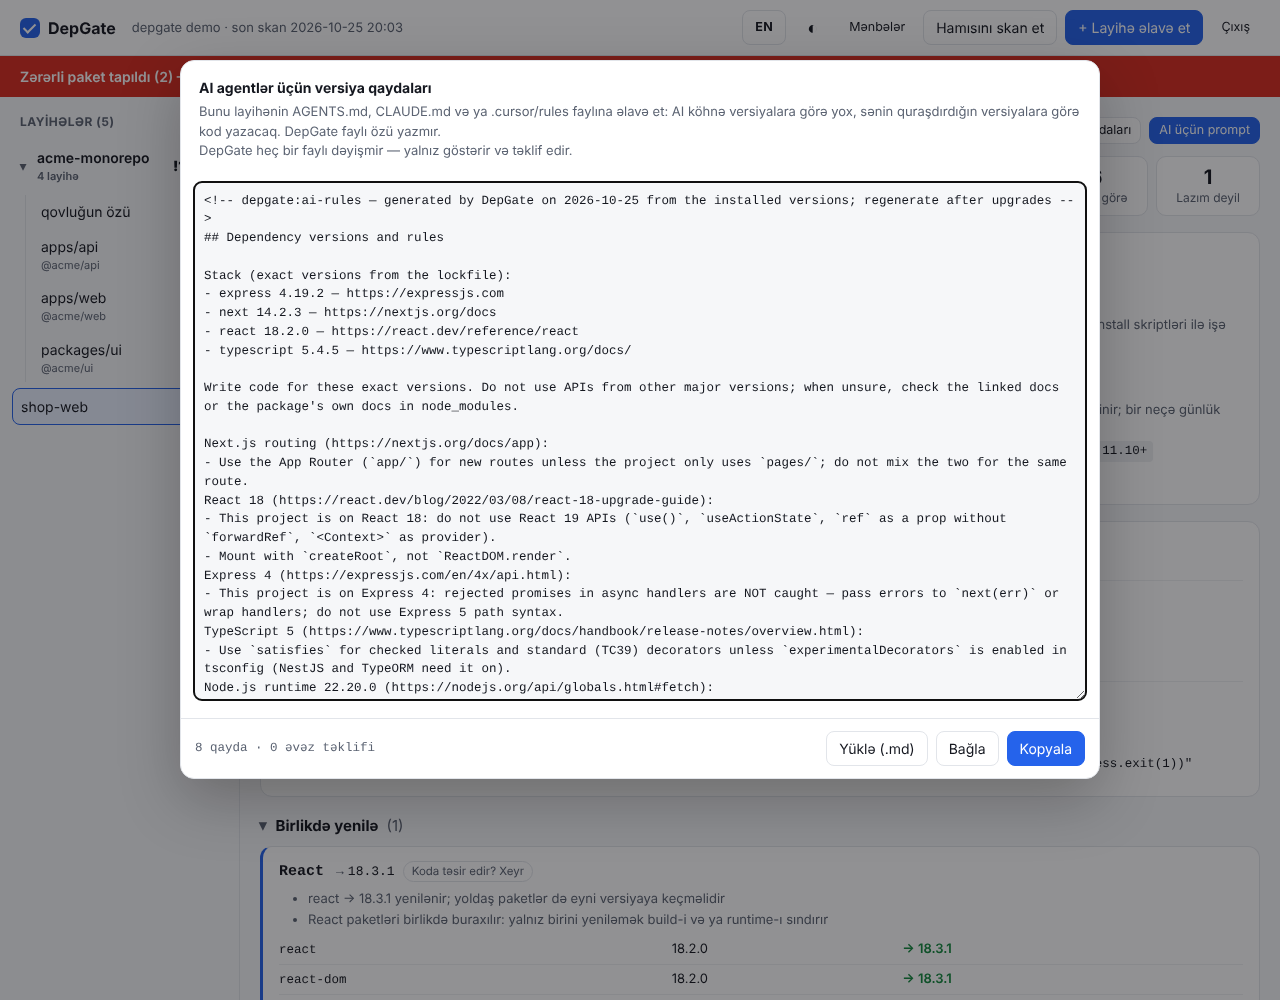
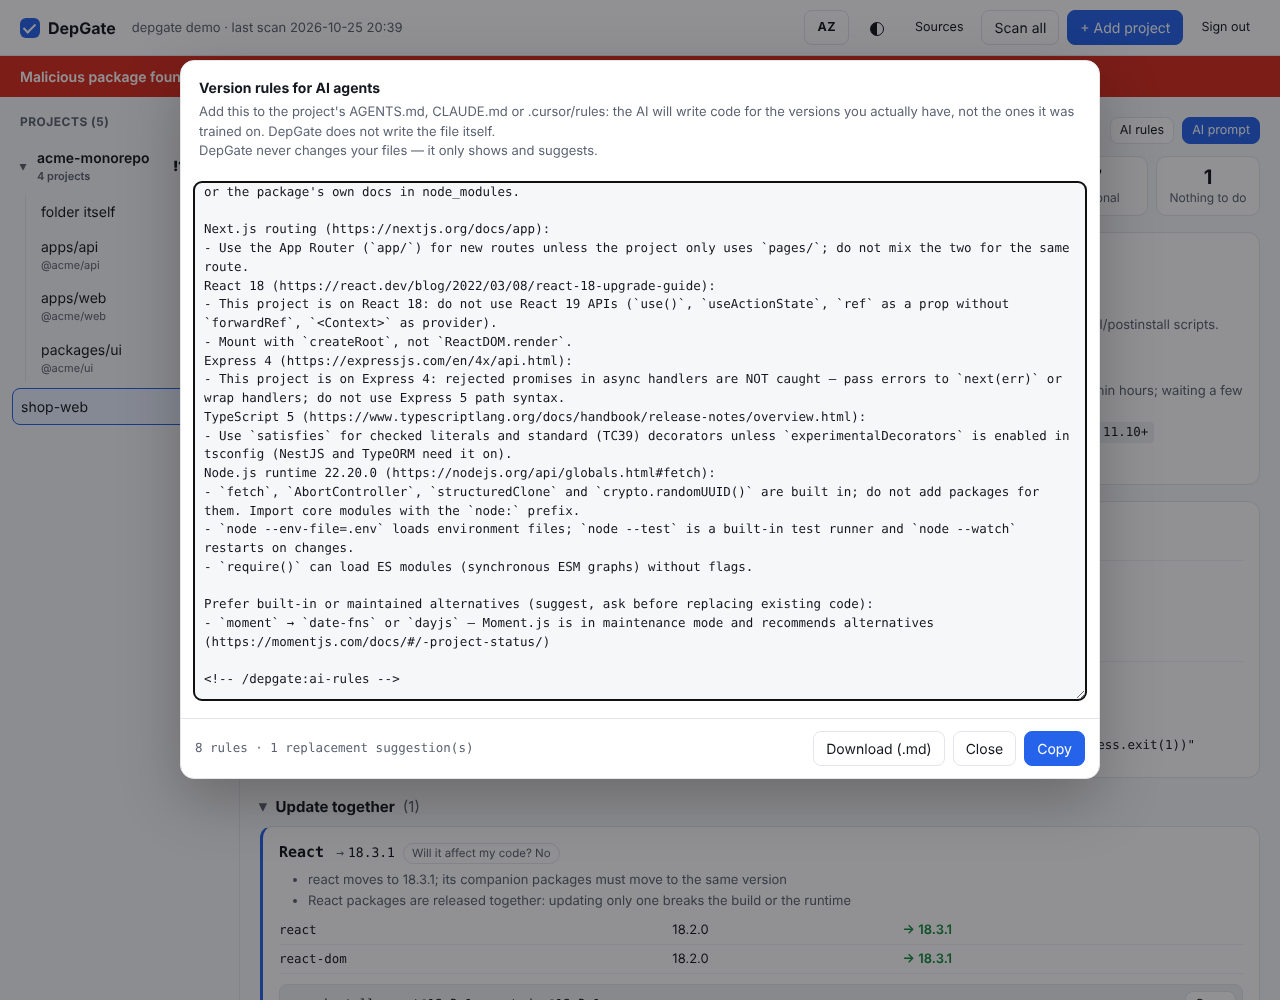
docs: bütün şəkillər indiki versiya ilə yenidən çəkildi; tema ikonu CSS ilə
- əsas şəkillər (EN/AZ) zərərli paket kartını da göstərir
- mənbələr pəncərəsi tam (8 mənbə + lokal oxunanlar), mətn mənbə faylları və Docker fayllarını da qeyd edir
- AI qaydaları əvəz təklifi ilə, kod dəyişiklikləri və AI şəkilləri ingiliscə
- tema düyməsi şriftdən asılı olmayan CSS ikonu ilə (◐ bəzi sistemlərdə yarımçıq görünürdü)
- demo: moment paketi (əvəz təklifini göstərmək üçün)

Claude-Session: https://claude.ai/code/session_01RC5sxXsnmjCqEpypdegVQc

diff --git a/internal/web/ui/app.js b/internal/web/ui/app.js
@@ -138,7 +138,7 @@
     sourcesTitle: ["Skan hansı mənbələrə əsaslanır", "What the scan is based on"],
     sourcesIntro: ["DepGate qərarı bu açıq mənbələrə görə verir. Kodun və faylların heç yerə göndərilmir — mənbələrdən yalnız paket adı və versiyası soruşulur.", "DepGate decides with these public sources. Your code and files are never sent anywhere — only package names and versions are looked up."],
     sourcesLocal: ["Kompüterində oxunanlar", "Read on your computer"],
-    sourcesLocalText: ["package.json və lockfile (npm, pnpm, yarn, bun) — quraşdırılmış versiyalar və asılılıq zənciri; Dockerfile, .nvmrc, .node-version, engines və CI faylları — Node.js versiyası; .npmrc — gigiyena yoxlamaları.", "package.json and the lockfile (npm, pnpm, yarn, bun) — installed versions and the dependency chain; Dockerfile, .nvmrc, .node-version, engines and CI files — the Node.js version; .npmrc — hygiene checks."],
+    sourcesLocalText: ["package.json və lockfile (npm, pnpm, yarn, bun) — quraşdırılmış versiyalar və asılılıq zənciri; layihənin mənbə faylları — yeniləmədə kodunda dəyişəcək yerlər; Dockerfile və compose faylları, .dockerignore — Docker yoxlaması; .nvmrc, .node-version, engines və CI faylları — Node.js versiyası; .npmrc — gigiyena yoxlamaları. Bunlar heç yerə göndərilmir.", "package.json and the lockfile (npm, pnpm, yarn, bun) — installed versions and the dependency chain; the project's source files — the places an update changes in your code; Dockerfiles, compose files and .dockerignore — Docker checks; .nvmrc, .node-version, engines and CI files — the Node.js version; .npmrc — hygiene checks. None of it is sent anywhere."],
     sourcesOnline: ["İnternetdən soruşulanlar", "Looked up online"],
     srcReq: ["{0} sorğu", "{0} requests"],
     srcReq1: ["1 sorğu", "1 request"],
@@ -215,7 +215,7 @@
     rulesBtn: ["AI qaydaları", "AI rules"],
     rulesTitle: ["AI agentlər üçün versiya qaydaları", "Version rules for AI agents"],
     rulesHelp: ["Bunu layihənin AGENTS.md, CLAUDE.md və ya .cursor/rules faylına əlavə et: AI köhnə versiyalara görə yox, sənin quraşdırdığın versiyalara görə kod yazacaq. DepGate faylı özü yazmır.", "Add this to the project's AGENTS.md, CLAUDE.md or .cursor/rules: the AI will write code for the versions you actually have, not the ones it was trained on. DepGate does not write the file itself."],
-    rulesStats: ["{0} qayda · {1} əvəz təklifi", "{0} rules · {1} replacement suggestions"],
+    rulesStats: ["{0} qayda · {1} əvəz təklifi", "{0} rules · {1} replacement suggestion(s)"],
     rulesNothing: ["Bu layihə üçün xüsusi qayda yoxdur.", "No specific rules for this project."],
     pBundles: ["### Birlikdə yenilə", "### Update together"],
     pDocker: ["### Docker", "### Docker"],

diff --git a/internal/web/ui/index.html b/internal/web/ui/index.html
@@ -13,7 +13,7 @@
   <div class="meta" id="meta">…</div>
   <div class="actions">
     <button id="lang" class="ghost lang" title="Language">AZ</button>
-    <button id="theme" class="ghost" title="Theme" aria-label="Theme">◐</button>
+    <button id="theme" class="ghost" title="Theme" aria-label="Theme"><span class="ticon" aria-hidden="true"></span></button>
     <button id="srcbtn" class="ghost small" hidden>Sources</button>
     <button id="scanall" hidden>Scan all</button>
     <button id="addproj" class="primary" hidden>+ Add project</button>

diff --git a/internal/web/ui/style.css b/internal/web/ui/style.css
@@ -256,3 +256,6 @@ code.loc { font-weight: 600; }
 pre.snip { margin: 4px 0; padding: 6px 8px; background: var(--bg); border-radius: 6px; font-size: 12px; white-space: pre-wrap; overflow-wrap: anywhere; }
 details.notes { margin-top: 10px; }
 details.notes .note { margin-top: 8px; }
+
+/* theme icon drawn in CSS: no font needed */
+.ticon { display: inline-block; width: 14px; height: 14px; border-radius: 50%; border: 1.5px solid currentColor; background: linear-gradient(90deg, currentColor 50%, transparent 50%); vertical-align: -2px; }

diff --git a/internal/web/demo_test.go b/internal/web/demo_test.go
@@ -43,7 +43,7 @@ func TestServeDemo(t *testing.T) {
 		"next": {"14.2.3", "14.2.25", "15.5.6"}, "follow-redirects": {"1.15.6", "1.15.9"}, "express": {"4.19.2", "5.0.0"},
 		"debug": {"4.3.3", "4.3.4", "4.4.1"}, "react": {"18.2.0", "18.3.1", "19.2.0"}, "react-dom": {"18.2.0", "18.3.1", "19.2.0"},
 		"axios": {"1.6.8", "1.12.2"}, "typescript": {"5.4.5", "5.9.3"}, "lodash": {"4.17.21"}, "make-dir": {"3.1.0", "5.1.0"},
-		"nodemon": {"3.1.0", "3.1.10"}, "@types/node": {"20.12.7", "20.19.0"},
+		"nodemon": {"3.1.0", "3.1.10"}, "moment": {"2.29.4", "2.30.1"}, "@types/node": {"20.12.7", "20.19.0"},
 	} {
 		f.Versions[k] = sourcestest.Old(v...)
 	}
